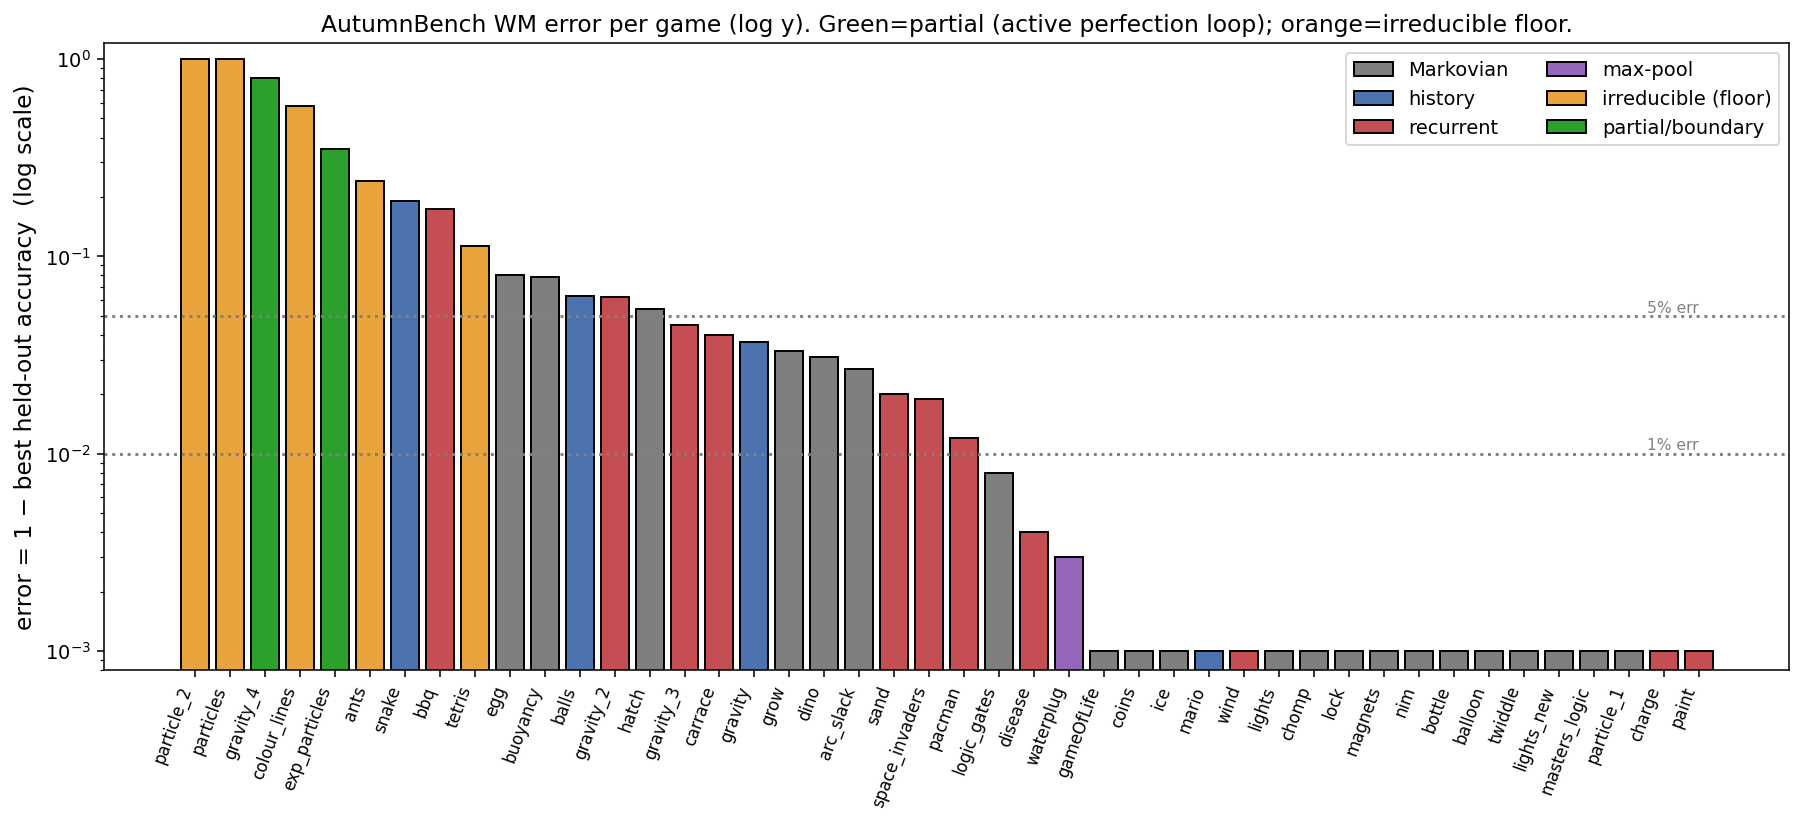
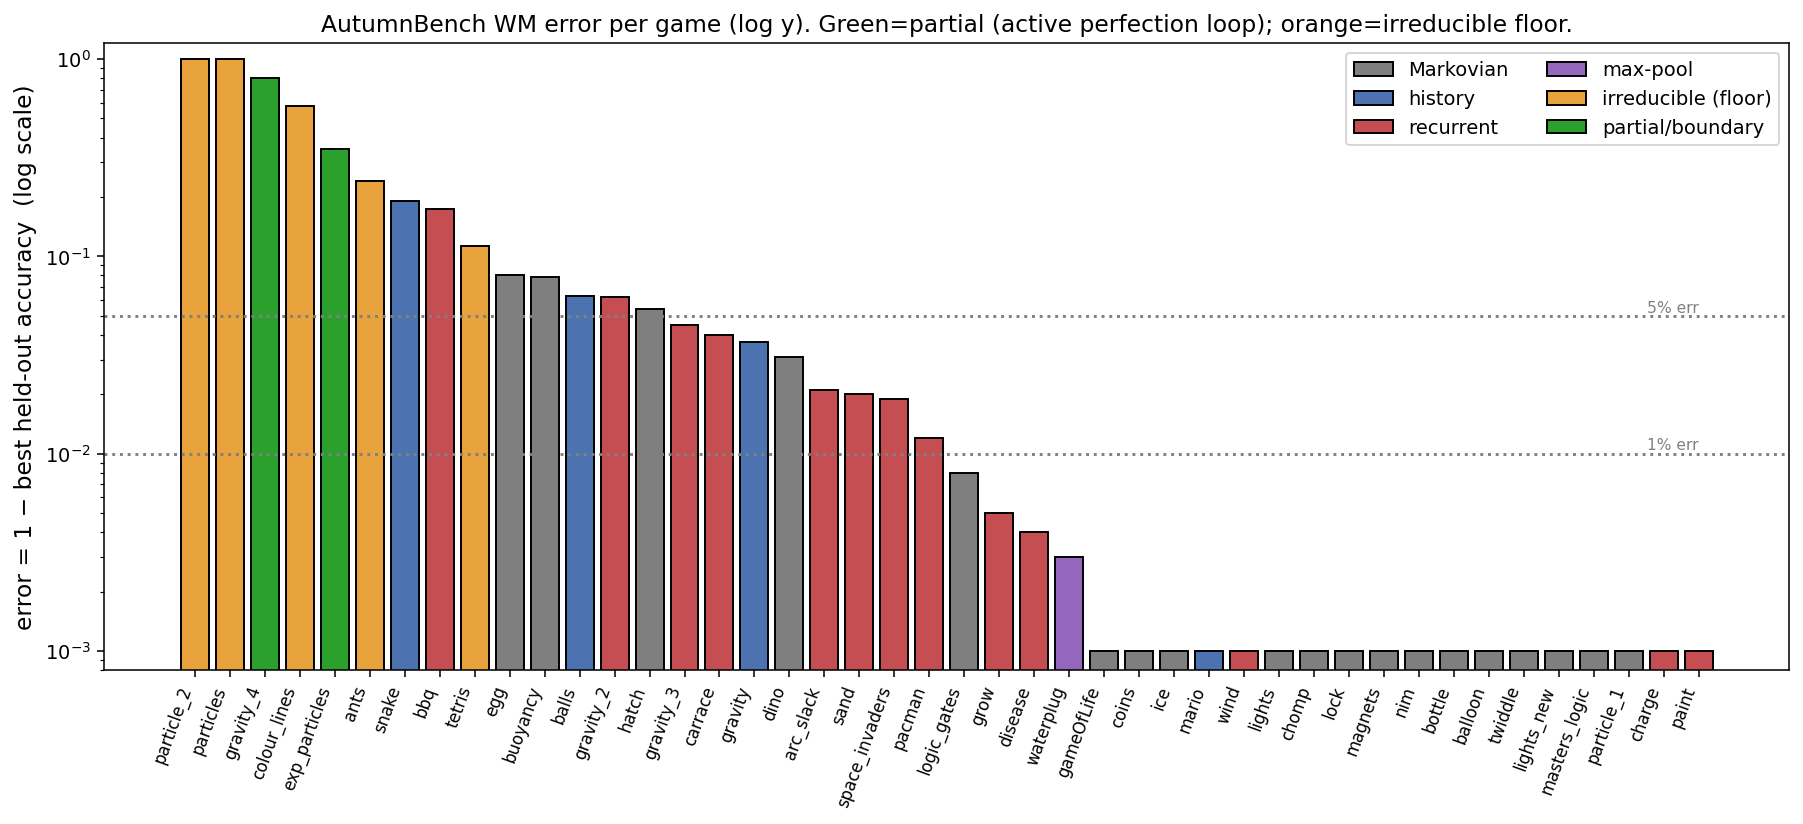
Perfection loop: grow 0.96->0.995, arc_slack 0.96->0.979 (recurrent)
Untested-recurrent scan continues to find wins (after wind 0.70->0.999): grow
(sun direction) and arc_slack (particle state) both improve with recurrent,
verified before/after, promoted. Lesson: test every applicable lever per game
before declaring floor. Testing dino/hatch next.

Changed region(s): [[0.4038, 0.4248, 0.5901, 0.9709]]

diff --git a/nca_wm/autumn/WORKLOG.md b/nca_wm/autumn/WORKLOG.md
@@ -291,6 +291,11 @@ KEY GENERALIZABLE FINDINGS from the loop: (1) "imperfect deterministic" almost a
 holds); (2) capacity is a COPY-ESCAPE rescue (helps only copy-stuck models, gravity_3), not a general boost; (3) always
 before/after vs baseline — the recurrent train metric overstates (egg/buoyancy false positives caught). Further gains
 need the open-problem compositional/rule-learning architecture, not more of the existing levers.
+**LOOP NOT DONE — untested-recurrent scan found more wins (2026-06-24):** premature "convergence" missed games where
+only single-frame/history was tried but recurrent (untested lever) helps. Verified before/after: **wind 0.702->0.999**
+(arrow-set direction), **grow 0.962->0.995** (sun direction), **arc_slack 0.955->0.979** (particle active/green state).
+All promoted. LESSON: systematically test EVERY applicable lever per game before declaring floor; the recurrent lever
+on hidden-state games I'd only single-frame'd kept paying off. Testing last candidates dino/hatch.
 
 ### CAPSTONE: one conditional recurrent model matches the per-game specialists (2026-06-23)
 Finished the dangling cond_rec_v1 thread — evaluated the SINGLE conditional recurrent NCA (9 games, FiLM+rule-slot
